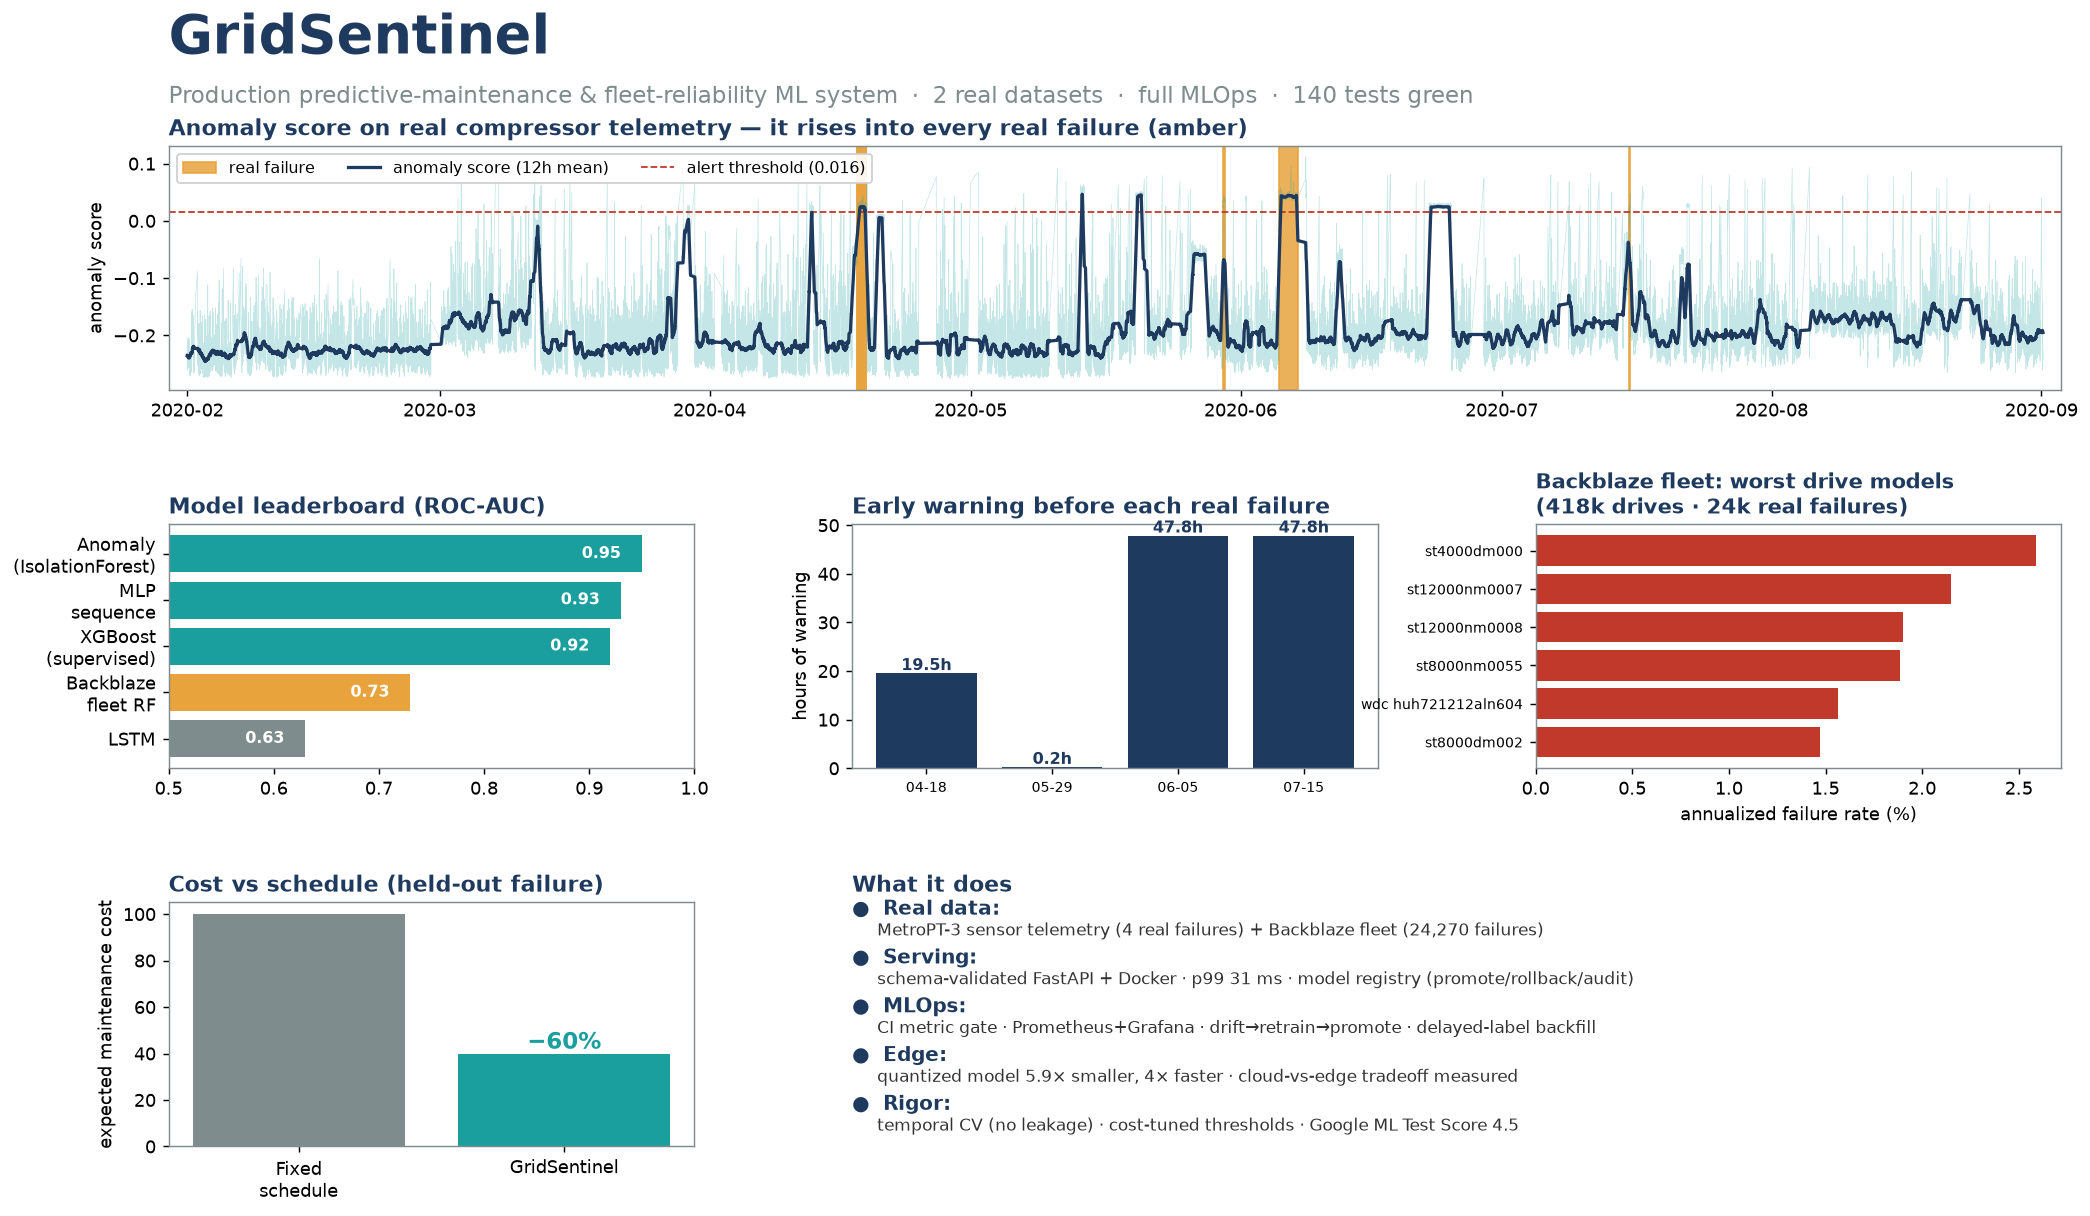
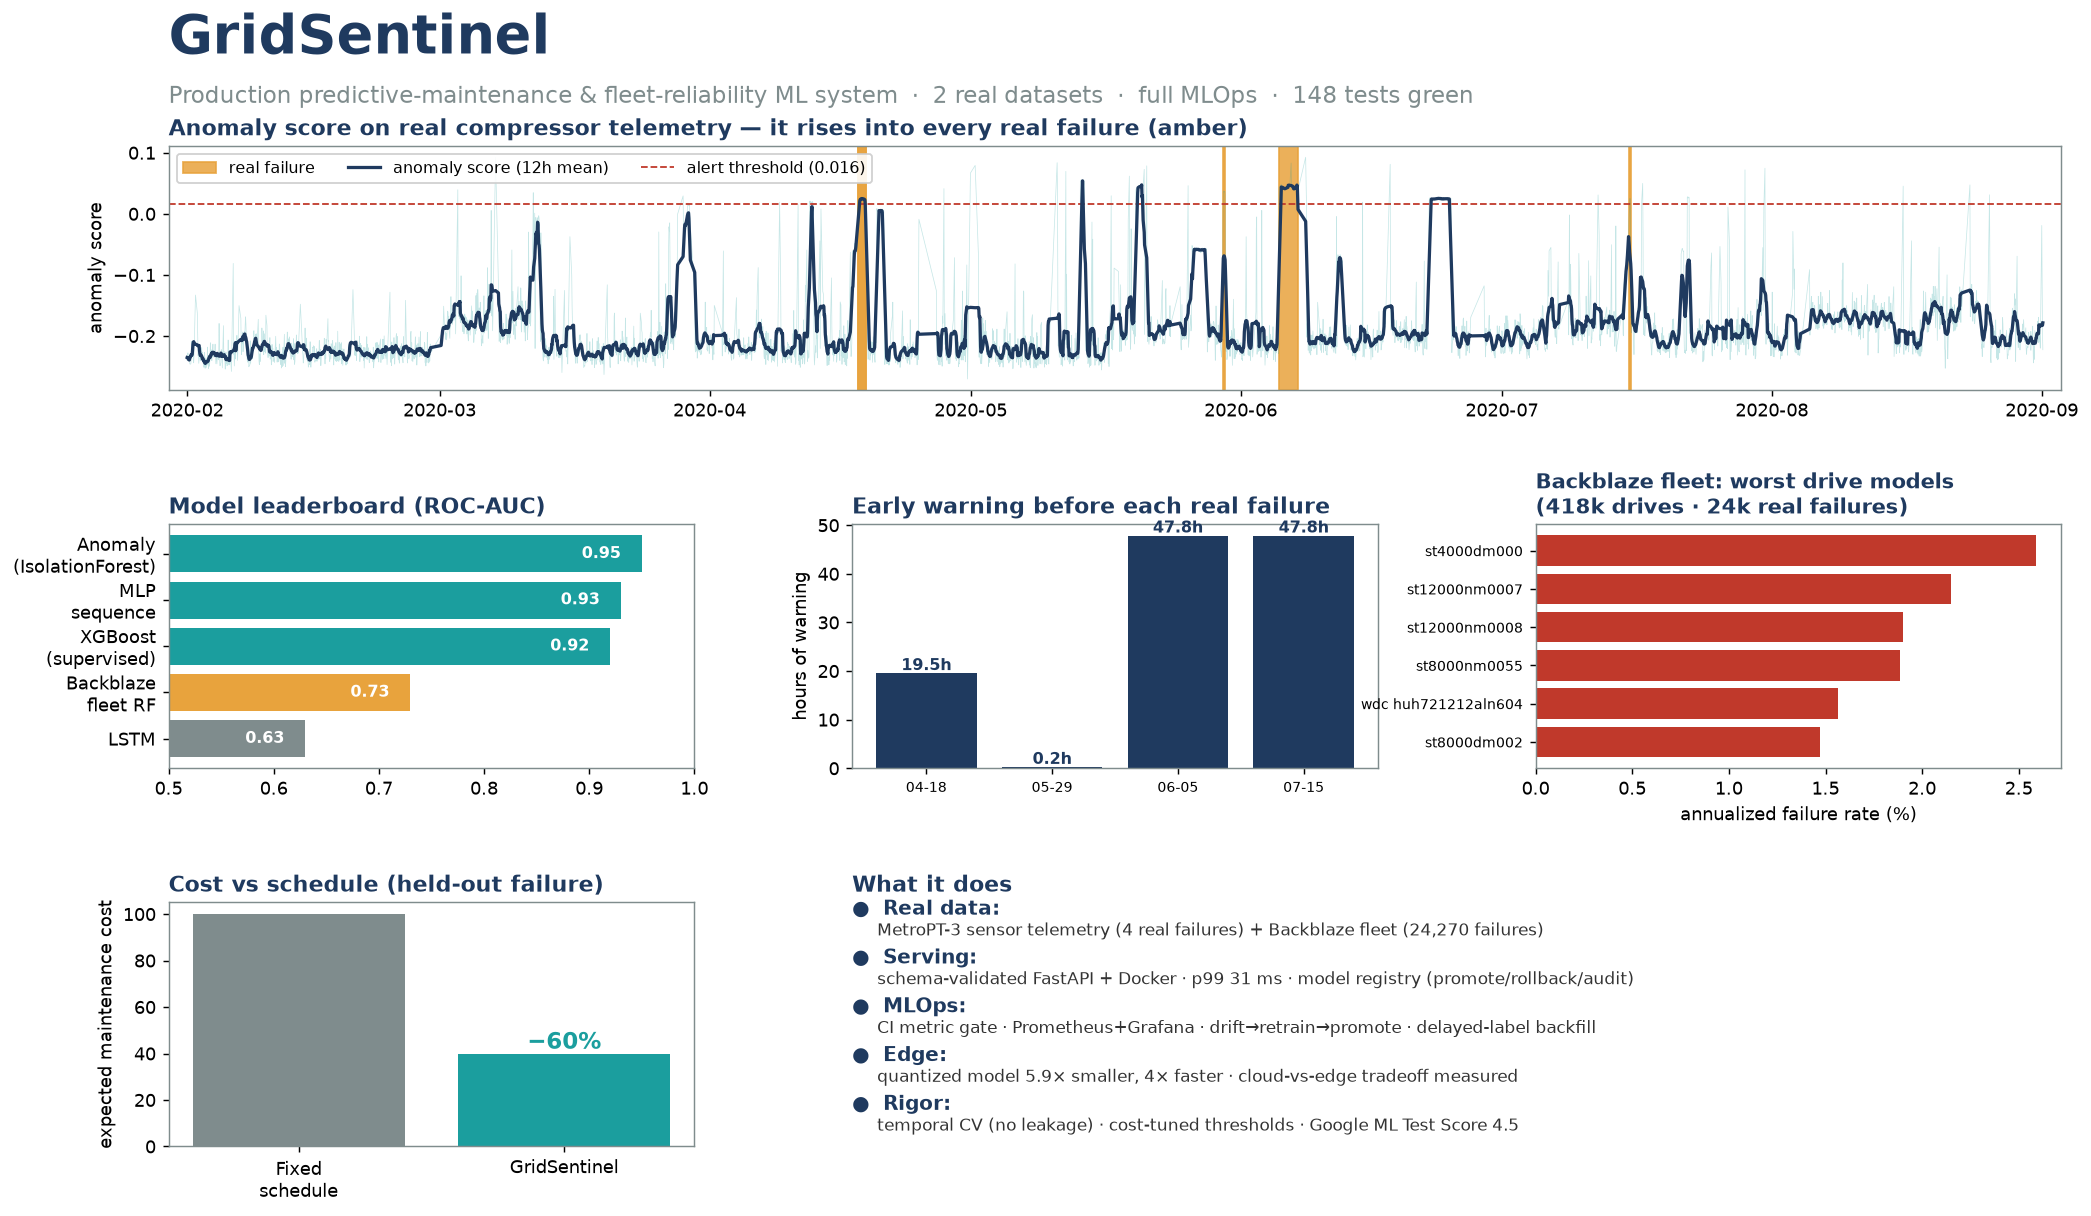
refactor(dashboard): build the hero PNG from committed assets; refresh it
The README hero (docs/dashboard.png) was stale (showed 140 tests, predated the
chart fixes) because it was the one artifact built from the raw dataset. Refactor
build() to source from reports/assets/ like build_html already does (smoothing
window adjusted for the hourly assets), regenerate the PNG (now 148 tests, matches
the fixed charts), and drop the raw-data requirement from the CLI/Makefile. The PNG
is now reproducible without the 218MB download — single source of truth with the
site and Streamlit app.

diff --git a/reports/dashboard.py b/reports/dashboard.py
@@ -3,9 +3,10 @@
 Produces a single PNG that, at a glance, shows what the system is and that it works:
 the anomaly detector firing before real failures, the model leaderboard, early-warning
 lead times, the Backblaze fleet failure rates, and the cost/ROI headline. Everything is
-computed from the real data + measured results — no mock numbers.
+computed from the real data + measured results — no mock numbers. All formats build from
+the committed assets in ``reports/assets/`` (regenerate those with ``make dashboard-assets``).
 
-    python -m reports.dashboard --metropt <csv> --backblaze <csv> --out docs/dashboard.png
+    python -m reports.dashboard --format both --out docs/dashboard.png
 """
 # ruff: noqa: E501 — presentational title/caption strings read better unwrapped
 
@@ -61,12 +62,18 @@ def _afr(backblaze_csv: str):
     return afr.index.tolist(), afr["afr"].tolist()
 
 
-def build(metropt_csv: str, backblaze_csv: str, out: str) -> str:
+def build(
+    metropt_csv=None, backblaze_csv=None, out="docs/dashboard.png", *, assets_dir="reports/assets"
+) -> str:
+    """Render the static one-page results PNG from the committed assets (reproducible
+    without the raw dataset). ``metropt_csv``/``backblaze_csv`` are accepted for CLI
+    compatibility but unused."""
     plt.rcParams.update({"font.size": 10, "axes.edgecolor": GREY, "axes.linewidth": 0.8})
     fig = plt.figure(figsize=(16, 9.5), facecolor="white")
     gs = fig.add_gridspec(
         3, 3, hspace=0.55, wspace=0.3, top=0.88, bottom=0.07, left=0.06, right=0.97
     )
+    ts, scores, thr, events, _mauc, _lead, models_afr, afrs = _load_from_assets(assets_dir)
 
     # Title banner
     fig.text(0.06, 0.955, "GridSentinel", fontsize=30, fontweight="bold", color=NAVY)
@@ -80,8 +87,9 @@ def build(metropt_csv: str, backblaze_csv: str, out: str) -> str:
 
     # --- Hero: anomaly score over time, failures shaded ---
     ax = fig.add_subplot(gs[0, :])
-    ts, scores, thr, events = _anomaly_timeline(metropt_csv)
-    smooth = pd.Series(scores).rolling(72, center=True, min_periods=1).mean()  # ~12h mean
+    smooth = (
+        pd.Series(scores).rolling(12, center=True, min_periods=1).mean()
+    )  # ~12h on hourly assets
     for ev in events:
         ax.axvspan(ev.start, ev.end, color=AMBER, alpha=0.85, zorder=1)
     ax.axvspan(
@@ -142,8 +150,7 @@ def build(metropt_csv: str, backblaze_csv: str, out: str) -> str:
 
     # --- Backblaze fleet AFR ---
     ax = fig.add_subplot(gs[1, 2])
-    models, afrs = _afr(backblaze_csv)
-    ax.barh(models, [a * 100 for a in afrs], color=RED)
+    ax.barh(models_afr, [a * 100 for a in afrs], color=RED)
     ax.invert_yaxis()
     ax.set_xlabel("annualized failure rate (%)")
     ax.set_title(
@@ -497,9 +504,9 @@ def main(argv: list[str] | None = None) -> int:
     p.add_argument("--repo", default=REPO)
     p.add_argument("--branch", default="main")
     a = p.parse_args(argv)
+    # All formats build from the committed assets by default; pass --metropt/--backblaze
+    # only to recompute the interactive HTML from the raw dataset.
     if a.format in ("png", "both"):
-        if not a.metropt or not a.backblaze:
-            p.error("--metropt and --backblaze are required for the png format")
         print("wrote", build(a.metropt, a.backblaze, a.out.replace(".html", ".png")))
     if a.format in ("html", "both"):
         print("wrote", build_html(a.metropt, a.backblaze, a.out.replace(".png", ".html")))